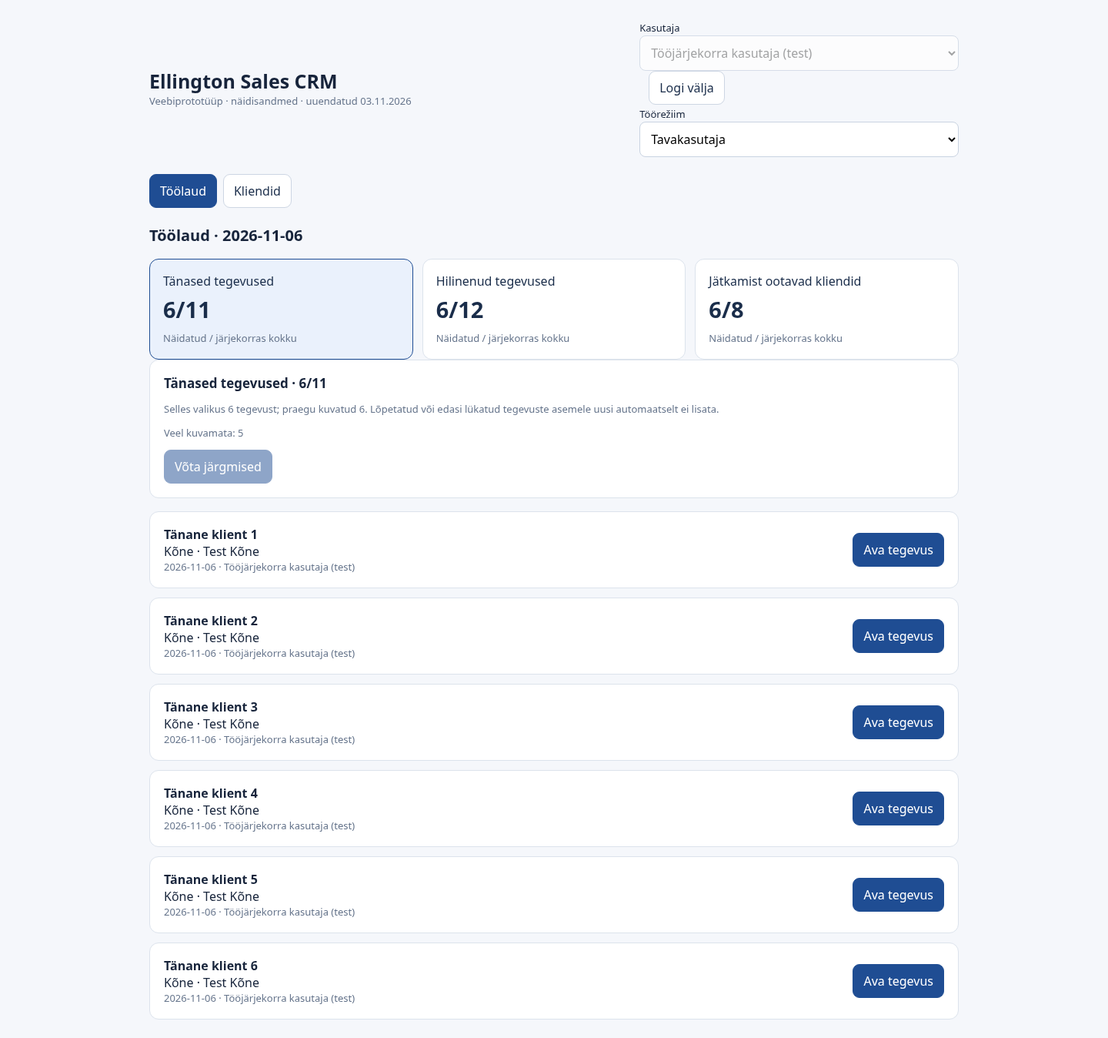
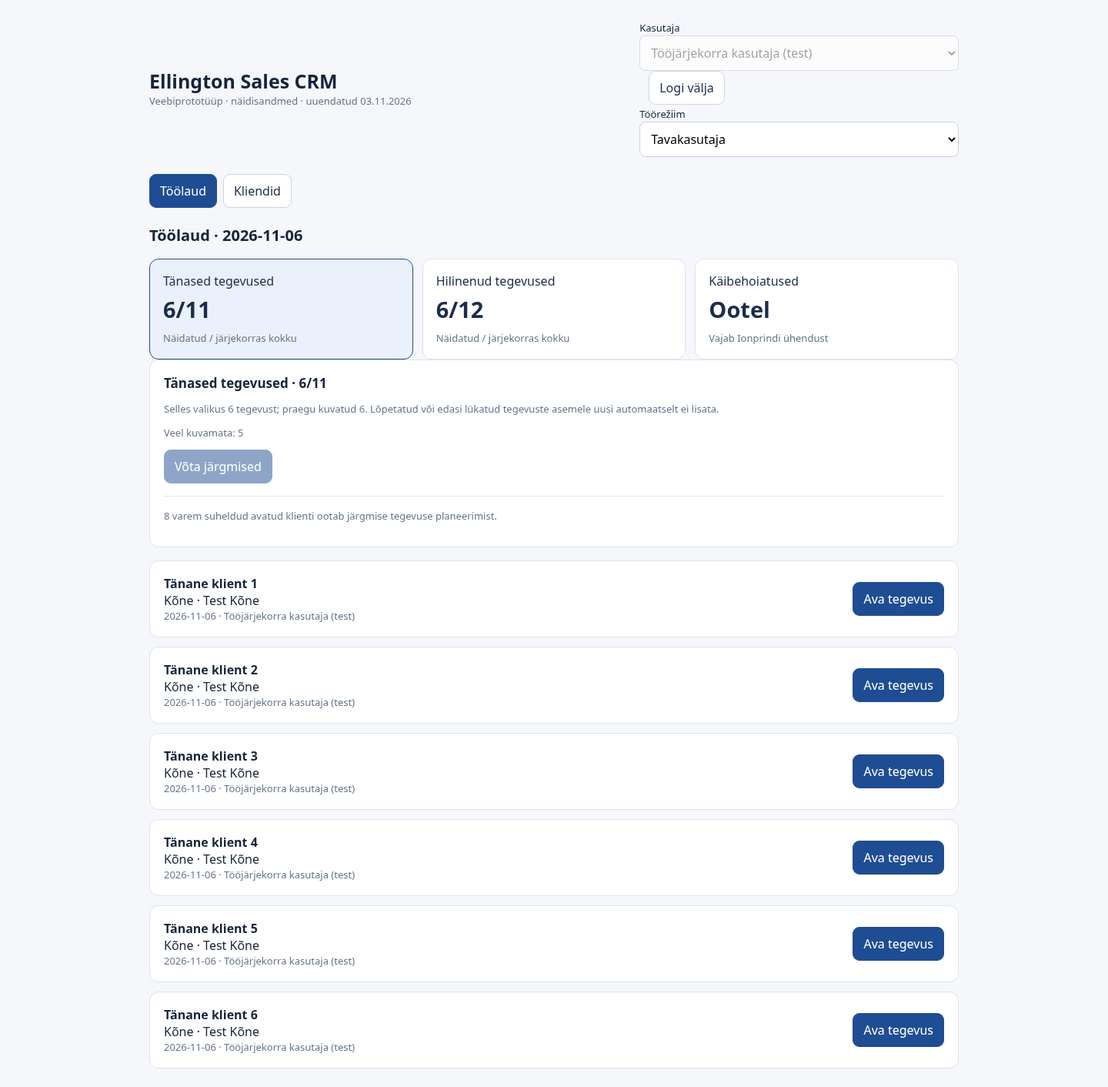
Keep revenue warnings reserved and fill returning-client work into todays six slots

diff --git a/server/services/work-queues.js b/server/services/work-queues.js
@@ -1,7 +1,7 @@
 'use strict';
 const w=require('./activity-workflow');
-const LIMIT=6,LANES=['overdue','today','continuation'];
-const titles={overdue:'Hilinenud tegevused',today:'Tänased tegevused',continuation:'Jätkamist ootavad kliendid'};
+const LIMIT=6,LANES=['overdue','today'];
+const titles={overdue:'Hilinenud tegevused',today:'Tänased tegevused'};
 const empty=()=>Object.fromEntries(LANES.map(lane=>[lane,{ids:[],seen:[],batch:0}]));
 const error=(status,message)=>{throw new w.WorkflowError(status,message);};
 const key=id=>String(id);
@@ -13,22 +13,17 @@ function stateOf(row){
  return state;
 }
 function date(day){if(!w.validDate(day))error(400,'Vigane tööpäev.');return day;}
-async function pools(db,user,day,state){
+async function pools(db,user,day){
  const admin=user.role==='admin';
- const continuation=new Set(state.continuation.seen.map(key));
- if(admin){
-  const plans=await db('crm_work_queue_days').where({work_date:day}).select('state');
-  for(const plan of plans)for(const id of stateOf(plan).continuation.seen)continuation.add(key(id));
- }
  const rows=await db('crm_activities as a').join('crm_clients as c','c.id','a.client_id').leftJoin('crm_activity_details as d','d.activity_id','a.id').leftJoin('users as u','u.id','a.owner_user_id')
   .where('a.status','active').where(q=>q.whereNull('c.stop_reason').orWhere('c.stop_reason',''))
   .modify(q=>{if(!admin)q.where('a.owner_user_id',user.id).where('c.owner_user_id',user.id);})
   .select('a.*','c.name as client','c.followup_count','u.name as owner_name','d.purpose','d.instructions','d.subject','d.template_id','d.next_step_json').orderBy('a.due_date').orderBy('a.id');
- const result={overdue:[],today:[],continuation:[]};
+ const result={overdue:[],today:[]};
  for(const raw of rows){
   const a={...raw,due_date:w.dateOnly(raw.due_date),nextStep:w.parse(raw.next_step_json)};
   if(a.due_date<day)result.overdue.push(a);
-  else if(a.due_date===day)result[continuation.has(key(a.id))?'continuation':'today'].push(a);
+  else if(a.due_date===day)result.today.push(a);
  }
  // A future or otherwise active task blocks another task for the same client.
  const candidates=await db('crm_clients as c').leftJoin('users as u','u.id','c.owner_user_id')
@@ -47,43 +42,53 @@ async function read(db,user,{day=w.today(),pages={}}={}){
  date(day);
  const admin=user.role==='admin';
  const plan=admin?null:await db('crm_work_queue_days').where({owner_user_id:user.id,work_date:day}).first();
- const state=stateOf(plan),available=await pools(db,user,day,state),queues={};
+ const state=stateOf(plan),available=await pools(db,user,day),queues={};
  for(const lane of LANES){
   const entries=available[lane],ids=new Set(state[lane].ids.map(key));
   const selected=entries.filter(a=>ids.has(key(a.id)));
-  const preview=lane==='continuation'&&!state[lane].seen.length;
   const page=admin?Number(pages[lane]||0):0;
   if(!Number.isSafeInteger(page)||page<0||page>100000)error(400,'Vigane lehekülg.');
-  const candidateTotal=lane==='continuation'?available.candidates.length:0;
-  const total=entries.length+candidateTotal;
-  const list=admin?(lane==='continuation'?[...entries,...available.candidates.map(c=>({...c,client_id:c.id,client:c.name,kind:'client'}))]:entries).slice(page*LIMIT,(page+1)*LIMIT):
-   preview?available.candidates.slice(0,LIMIT).map(c=>({...c,client_id:c.id,client:c.name,kind:'client'})):selected;
-  queues[lane]={title:titles[lane],items:list.map(a=>({...a,kind:a.kind||'activity'})),shown:list.length,total,waiting:Math.max(0,total-list.length),selected:state[lane].ids.length,batch:state[lane].batch,preview:!admin&&preview,page,has_next:admin&&(page+1)*LIMIT<total,
-   can_next:!admin&&!!plan&&selected.length===0&&(lane==='continuation'?candidateTotal>0:entries.some(a=>!state[lane].seen.includes(Number(a.id))))};
+  const list=admin?entries.slice(page*LIMIT,(page+1)*LIMIT):selected;
+  queues[lane]={title:titles[lane],items:list.map(a=>({...a,kind:'activity'})),shown:list.length,total:entries.length,waiting:Math.max(0,entries.length-list.length),selected:state[lane].ids.length,batch:state[lane].batch,page,has_next:admin&&(page+1)*LIMIT<entries.length,
+   can_next:!admin&&!!plan&&selected.length===0&&entries.some(a=>!state[lane].seen.includes(Number(a.id)))};
  }
- return {work_date:day,limit:LIMIT,read_only:admin,initialized:!!plan,version:plan?.version??null,queues};
+ const reset=queues.today.shown===0&&state.today.ids.length>0;
+ const slots=reset?LIMIT:LIMIT-state.today.ids.length;
+ const pending=available.today.some(a=>!state.today.seen.includes(Number(a.id)));
+ const unplanned={total:available.candidates.length,slots,can_fill:!admin&&!!plan&&slots>0&&!pending&&available.candidates.length>0};
+ return {work_date:day,limit:LIMIT,read_only:admin,initialized:!!plan,version:plan?.version??null,queues,unplanned,revenue_warnings:{available:false}};
 }
 async function select(db,user,input={},day=w.today()){
  date(day);
  if(user.role==='admin')error(403,'Päevaplaani valimiseks lülitu tavakasutaja režiimi.');
- if(!['initialize','next'].includes(input.action)||Object.keys(input).some(k=>!['action','lane','version','work_date','template_id'].includes(k)))error(400,'Vigane päevaplaani toiming.');
+ if(!['initialize','next','fill'].includes(input.action)||Object.keys(input).some(k=>!['action','lane','version','work_date','template_id'].includes(k)))error(400,'Vigane päevaplaani toiming.');
  return db.transaction(async trx=>{
   const actor=await trx('users').where({id:user.id,is_active:1}).forUpdate().first('id','role');
   if(!actor)error(403,'Kasutaja pole aktiivne.');
   let plan=await trx('crm_work_queue_days').where({owner_user_id:user.id,work_date:day}).first();
   if(input.action==='initialize'){
    if(plan)return read(trx,user,{day});
-   const state=empty(),available=await pools(trx,user,day,state);
+   const state=empty(),available=await pools(trx,user,day);
    for(const lane of ['overdue','today'])state[lane].ids=state[lane].seen=available[lane].slice(0,LIMIT).map(a=>Number(a.id));
    await trx('crm_work_queue_days').insert({owner_user_id:user.id,work_date:day,version:1,state:JSON.stringify(state)});
    return read(trx,user,{day});
   }
   if(!plan||input.work_date!==day||!Number.isSafeInteger(input.version)||input.version!==plan.version)error(409,'Päevaplaan muutus. Värskenda töölauda.');
   if(!LANES.includes(input.lane))error(400,'Vigane tööjärjekord.');
-  const state=stateOf(plan),lane=input.lane,available=await pools(trx,user,day,state);
-  if(available[lane].some(a=>state[lane].ids.includes(Number(a.id))))error(409,'Tee praeguse valiku tegevused enne ära või lükka need edasi.');
+  const state=stateOf(plan),lane=input.lane,available=await pools(trx,user,day);
+  const filling=input.action==='fill';
+  if(filling&&lane!=='today')error(400,'Kliente saab lisada ainult tänasesse plaani.');
+  const currentActive=available[lane].some(a=>state[lane].ids.includes(Number(a.id)));
+  if(!filling&&currentActive)error(409,'Tee praeguse valiku tegevused enne ära või lükka need edasi.');
+  let slots=LIMIT;
+  if(filling){
+   if(available.today.some(a=>!state.today.seen.includes(Number(a.id))))error(409,'Võta esmalt järjekorras olevad kuupäevaga tegevused.');
+   if(!currentActive&&state.today.ids.length){state.today.ids=[];state.today.batch++;}
+   slots=LIMIT-state.today.ids.length;
+   if(slots<=0)error(409,'Tänase valiku kuus kohta on juba kasutusel.');
+  }
   const ids=[];
-  if(lane==='continuation'){
+  if(filling){
    const templateId=Number(input.template_id);
    if(!Number.isSafeInteger(templateId)||templateId<1)error(400,'Vali olemasolev tegevusmall.');
    const template=await trx('crm_templates').where({id:templateId,is_active:1}).first();
@@ -94,11 +99,11 @@ async function select(db,user,input={},day=w.today()){
     if(await trx('crm_activities').where({client_id:candidate.id,status:'active'}).forUpdate().first('id'))continue;
     if(await trx('crm_email_inbox').where({client_id:candidate.id}).whereNull('handled_at').forUpdate().first('id'))continue;
     const created=await w.create(trx,user,{client_id:Number(candidate.id),type:template.type,template_id:template.id,purpose:template.purpose||template.name,instructions:template.body||'',subject:template.subject||'',due_date:day});
-    ids.push(Number(created.id));if(ids.length===LIMIT)break;
+    ids.push(Number(created.id));if(ids.length===slots)break;
    }
   }else ids.push(...available[lane].filter(a=>!state[lane].seen.includes(Number(a.id))).slice(0,LIMIT).map(a=>Number(a.id)));
   if(!ids.length)error(409,'Sobivaid tegevusi ei ole enam järjekorras. Värskenda töölauda.');
-  state[lane]={ids,seen:[...state[lane].seen,...ids],batch:state[lane].batch+1};
+  state[lane]={ids:filling?[...state[lane].ids,...ids]:ids,seen:[...state[lane].seen,...ids],batch:state[lane].batch+(filling?0:1)};
   const encoded=JSON.stringify(state);if(Buffer.byteLength(encoded)>60000)error(409,'Päevaplaani maht on täis. Jätka kliendikaardilt.');
   await trx('crm_work_queue_days').where({id:plan.id}).update({state:encoded,version:plan.version+1,updated_at:trx.fn.now()});
   return read(trx,user,{day});

diff --git a/test/work-queues.test.js b/test/work-queues.test.js
@@ -52,8 +52,8 @@ test('work date follows Tallinn midnight in winter and summer',()=>{
 test('queue reads preserve records and exclude stopped, future, untouched, reply-awaiting and other-owner clients',async()=>{
  const before=await snapshot(),result=await view();
  assert.equal(result.initialized,false);assert.equal(result.work_date,day);
- assert.equal(result.queues.overdue.total,15);assert.equal(result.queues.today.total,10);assert.equal(result.queues.continuation.total,10);
- assert.equal(result.queues.continuation.shown,6);assert.deepEqual(result.queues.continuation.items.slice(0,2).map(c=>c.client_id),fixtures.unplanned.slice(0,2));
+ assert.equal(result.queues.overdue.total,15);assert.equal(result.queues.today.total,10);assert.equal(result.unplanned.total,10);
+ assert.deepEqual(Object.keys(result.queues).sort(),['overdue','today']);assert.equal(result.revenue_warnings.available,false);
  assert.deepEqual(await snapshot(),before);
  assert.equal(Number((await db('crm_work_queue_days').where({owner_user_id:a.id}).count('* as n').first()).n),0);
  await api('/v8/work-queues',undefined,401,null);
@@ -99,25 +99,40 @@ test('explicit next batch is atomic across browser tabs and keeps the original a
  const after=await view();assert.equal(after.version,current.version+1);assert.equal(after.queues.overdue.shown,6);assert.ok(after.queues.overdue.items.every(a=>!firstBatch.includes(a.id)));
  assert.deepEqual(await snapshot(),before);
 });
-test('returning clients require explicit template selection; selecting six creates tasks but sends nothing and preserves followup counts',async()=>{
- const before=await view(),baseBody={action:'next',lane:'continuation',version:before.version,work_date:day};
- const original=await snapshot();await api('/v8/work-queues/select',baseBody,400);assert.deepEqual(await snapshot(),original);
- await api('/v8/work-queues/select',{...baseBody,work_date:shift(-1),template_id:templates.Kõne},409);
- await api('/v8/work-queues/select',{...baseBody,user_id:b.id,template_id:templates.Kõne},400);
- const selected=(await api('/v8/work-queues/select',{...baseBody,template_id:templates.Kõne})).data;
- assert.equal(selected.queues.continuation.preview,false);assert.equal(selected.queues.continuation.shown,6);assert.equal(selected.queues.continuation.total,10);
- assert.deepEqual(selected.queues.continuation.items.map(a=>a.client_id),fixtures.unplanned.slice(0,6));
- assert.equal(selected.queues.today.total,before.queues.today.total);
- const ids=selected.queues.continuation.items.map(a=>a.id);assert.ok(selected.queues.today.items.every(a=>!ids.includes(a.id)));
+test('dated work takes priority and returning clients fill only the two unused slots in todays six',async()=>{
+ let current=await view();
+ const body=()=>({action:'fill',lane:'today',version:current.version,work_date:day,template_id:templates.Kõne});
+ const beforeBlocked=await snapshot();assert.equal(current.unplanned.can_fill,false);
+ await api('/v8/work-queues/select',body(),409);assert.deepEqual(await snapshot(),beforeBlocked);
+ for(const task of current.queues.today.items)await api('/v8/activities/'+task.id+'/resolve',{comment:'Finish dated task first'});
+ current=await view();assert.equal(current.queues.today.shown,0);assert.equal(current.queues.today.total,4);assert.equal(current.unplanned.can_fill,false);
+ await api('/v8/work-queues/select',body(),409);
+ current=(await api('/v8/work-queues/select',{action:'next',lane:'today',version:current.version,work_date:day})).data;
+ assert.equal(current.queues.today.shown,4);assert.equal(current.unplanned.slots,2);assert.equal(current.unplanned.can_fill,true);
+ const original=await snapshot(),fillBody=body();
+ await api('/v8/work-queues/select',{...fillBody,template_id:null},400);assert.deepEqual(await snapshot(),original);
+ await api('/v8/work-queues/select',{...fillBody,work_date:shift(-1)},409);
+ await api('/v8/work-queues/select',{...fillBody,user_id:b.id},400);
+ await api('/v8/work-queues/select',{...fillBody,lane:'continuation'},400);
+ const selected=(await api('/v8/work-queues/select',fillBody)).data;
+ assert.equal(selected.queues.today.shown,6);assert.equal(selected.queues.today.total,6);assert.equal(selected.unplanned.total,8);assert.equal(selected.unplanned.can_fill,false);
+ const newTasks=selected.queues.today.items.filter(a=>fixtures.unplanned.includes(a.client_id));
+ assert.deepEqual(newTasks.map(a=>a.client_id),fixtures.unplanned.slice(0,2));
  const after=await snapshot();assert.deepEqual(after.crm_clients,original.crm_clients);assert.deepEqual(after.crm_email_outbox,original.crm_email_outbox);
- assert.equal(after.crm_activities.length,original.crm_activities.length+6);
- for(const task of selected.queues.continuation.items){assert.equal(task.due_date,day);assert.equal(task.owner_user_id,a.id);}
- await api('/v8/work-queues/select',{...baseBody,template_id:templates.Kõne},409);
- assert.deepEqual(await snapshot(),after);assert.deepEqual((await view()).queues.continuation.items.map(a=>a.id),ids);
+ assert.equal(after.crm_activities.length,original.crm_activities.length+2);
+ for(const task of newTasks){assert.equal(task.due_date,day);assert.equal(task.owner_user_id,a.id);}
+ await api('/v8/work-queues/select',fillBody,409);
+ assert.deepEqual(await snapshot(),after);assert.deepEqual((await view()).queues.today.items.map(a=>a.id),selected.queues.today.items.map(a=>a.id));
+});
+test('finishing a filled slot does not reopen its allocation or refill the daily plan',async()=>{
+ const current=await view(),task=current.queues.today.items[0];
+ await api('/v8/activities/'+task.id+'/resolve',{comment:'No automatic replacement'});
+ const next=await view();assert.equal(next.queues.today.shown,5);assert.equal(next.queues.today.total,5);assert.equal(next.unplanned.slots,0);assert.equal(next.unplanned.can_fill,false);
+ const before=await snapshot();await api('/v8/work-queues/select',{action:'fill',lane:'today',version:next.version,work_date:day,template_id:templates.Kõne},409);assert.deepEqual(await snapshot(),before);
 });
 test('user scope and administrator overview cannot reassign or complete another employees work',async()=>{
  const own=await view(),other=(await api('/v8/work-queues',undefined,200,otherCookie)).data;
- assert.equal(other.queues.today.total,1);assert.equal(other.queues.continuation.total,0);
+ assert.equal(other.queues.today.total,1);assert.equal(other.unplanned.total,0);
  await api('/v8/work-queues?today_page=1',undefined,403);
  await api('/v8/activities/'+fixtures.otherActivity+'/resolve',{comment:'Must reject'},403);
  await api('/work-mode',{mode:'admin'},200,adminCookie);
@@ -131,8 +146,8 @@ test('user scope and administrator overview cannot reassign or complete another 
  assert.deepEqual(await snapshot(),before);assert.equal(Number((await db('crm_work_queue_days').count('* as n').first()).n),count);
 });
 test('next day reclassifies unfinished returning-client tasks as overdue without creating copies',async()=>{
- const current=await view(),ids=current.queues.continuation.items.map(a=>a.id),before=await snapshot();
- const tomorrow=await queues.read(db,a,{day:shift(1)});assert.equal(tomorrow.initialized,false);assert.equal(tomorrow.queues.continuation.total,4);
+ const current=await view(),ids=current.queues.today.items.filter(a=>fixtures.unplanned.includes(a.client_id)).map(a=>a.id),before=await snapshot();
+ const tomorrow=await queues.read(db,a,{day:shift(1)});assert.equal(tomorrow.initialized,false);assert.equal(tomorrow.unplanned.total,8);
  const initialized=await queues.select(db,a,{action:'initialize'},shift(1));assert.equal(initialized.work_date,shift(1));
  const plans=await db('crm_work_queue_days').where({owner_user_id:a.id});assert.equal(plans.length,2);
  const shown=[];
@@ -173,9 +188,9 @@ test('a concurrent manual planner cannot produce a second active task for a retu
  const listener=query=>{if(query.sql.includes('crm_clients')&&query.sql.includes('for update')&&query.bindings.includes(first)){observed=true;release();}};
  const timer=setTimeout(release,5000);db.on('query',listener);
  try{
-  const selected=await queues.select(db,user,{action:'next',lane:'continuation',version:initial.version,work_date:day,template_id:templates.Kõne});
+  const selected=await queues.select(db,user,{action:'fill',lane:'today',version:initial.version,work_date:day,template_id:templates.Kõne});
   await manual;assert.equal(observed,true);
-  assert.deepEqual(selected.queues.continuation.items.map(a=>a.client_id),[second]);
+  assert.deepEqual(selected.queues.today.items.map(a=>a.client_id),[second]);
   assert.equal(Number((await db('crm_activities').where({client_id:first,status:'active'}).count('* as n').first()).n),1);
  }finally{clearTimeout(timer);db.removeListener('query',listener);release();await manual;}
 });

diff --git a/private/v8/prototuup_v8.html b/private/v8/prototuup_v8.html
@@ -524,7 +524,7 @@ async function crmResetPassword(id){const p=prompt('Uus CRM-i sisselogimise paro
 // Unified activity workflow. All views call these same forms and endpoints.
 let v8Active=null,v8Action=null,v8Stop=null,v8Pending=false,crmMailDraft=null;
 let crmQueueLoad=0;
-let crmQueues=null,crmQueueTemplate="",crmQueuePages={overdue:0,today:0,continuation:0};
+let crmQueues=null,crmQueueTemplate="",crmQueuePages={overdue:0,today:0};
 let crmReady=false,crmRealMe=null,crmRealUsers=[],crmReplyAlerts=[],crmReplyLoading=false,crmReplyReview=null;
 let crmSelectedClient=null,crmClientResult=null,crmClientMessages=[],crmClientReplies=[],crmClientRequest=0;
 const crmReplyIds=clientId=>[...new Set([...crmReplyAlerts,...crmClientReplies].filter(r=>Number(r.client_id||crmSelectedClient)===Number(clientId)&&!r.handled_at).map(r=>Number(r.id)))];
@@ -560,24 +560,28 @@ function crmClientActivities(result){
 function renderDashboard(){
  const alerts=crmReplyAlerts.map(a=>`<section class="panel" style="border-left:5px solid #c62828"><div class="taskhead"><div><b>${esc(a.client_name)}</b><div class="bad"><b>Klient vastas</b></div><div class="muted">${esc(a.subject||'(Pealkirjata)')} · ${esc(a.sender)}</div></div><div class="choices"><button onclick="crmOpenReplyClient(${Number(a.client_id)})">Ava kliendikaart</button>${Number(a.owner_user_id)===Number(crmRealMe?.id)?`<button onclick="crmReviewReply(${Number(a.id)},${Number(a.client_id)})">Käsitle vastust</button><button onclick="crmReplyPlan(${Number(a.client_id)})">Planeeri uus tegevus</button><button onclick="crmReplyStop(${Number(a.client_id)})">Lõpeta jälgimine</button>`:'<span class="muted">Ainult vaatamine</span>'}</div></div></section>`).join('');
  if(!crmQueues)return '<h2>Töölaud</h2><p class="muted">Laadin päevaplaani…</p>';
- const lane=tab==='overdue'?'overdue':tab==='continuation'?'continuation':'today';
+ const lane=tab==='overdue'?'overdue':'today';
  const q=crmQueues.queues[lane],busy=v8Pending||!!v8Active||!!v8Action||!!v8Stop;
- const cards=[['today','activities'],['overdue','overdue'],['continuation','continuation']].map(([key,t])=>{
-  const item=crmQueues.queues[key];return `<button class="card ${lane===key?'active':''}" onclick="switchTab('${t}')">${esc(item.title)}<strong>${item.shown}/${item.total}</strong><span class="muted">Näidatud / järjekorras kokku</span></button>`;
- }).join('');
- const tasks=q.items.filter(a=>a.kind==='activity').map(crmTask);
- const clients=q.items.filter(a=>a.kind==='client').map(c=>`<section class="panel"><div class="taskhead"><div><b>${esc(c.client)}</b><div class="muted">${esc(c.owner_name||'')} · Tehtud tegevusi: ${Number(c.followup_count||0)}</div><div class="small muted">${c.last_contact?'Viimane kontakt: '+esc(c.last_contact):'Viimase kontakti aeg teadmata'}</div></div><button onclick="crmOpenReplyClient(${Number(c.client_id)})">Ava kliendikaart</button></div></section>`).join('');
- const selector=lane==='continuation'&&!crmQueues.read_only?`<label for="crmQueueTemplate">Tegevusmall järgmiseks valikuks</label><select id="crmQueueTemplate" ${busy?'disabled':''} onchange="crmQueueTemplate=this.value"><option value="">Vali tegevusmall</option>${data.templates.map(t=>`<option value="${esc(t.id)}" ${String(t.id)===String(crmQueueTemplate)?'selected':''}>${esc(t.type)} · ${esc(t.purpose||t.name)}</option>`).join('')}</select><p class="small muted">Valik loob kuni 6 tänase tähtajaga tegevust. E-kirju automaatselt ei saadeta.</p>`:'';
+ const cards=[['today','activities'],['overdue','overdue']].map(([key,t])=>{
+  const item=crmQueues.queues[key];return `<button class="card ${tab===t?'active':''}" onclick="switchTab('${t}')">${esc(item.title)}<strong>${item.shown}/${item.total}</strong><span class="muted">Näidatud / järjekorras kokku</span></button>`;
+ }).join('')+`<button class="card ${tab==='warnings'?'active':''}" onclick="switchTab('warnings')">Käibehoiatused<strong>Ootel</strong><span class="muted">Vajab Ionprindi ühendust</span></button>`;
+ const header=`<h2>Töölaud · ${esc(crmQueues.work_date)}</h2><div class="cards">${cards}</div>`;
+ const replies=alerts?`<h2>Klientide vastused · ${crmReplyAlerts.length}</h2><div class="stack">${alerts}</div>`:'';
+ if(tab==='warnings')return header+'<section class="panel"><h3>Käibehoiatused</h3><p class="muted">See koht on reserveeritud käibelangusega klientide tegevustele. Hoiatused lisanduvad pärast Ionprindi andmeühenduse valmimist.</p></section>'+replies;
+ const tasks=q.items.map(crmTask);
+ const waiting=crmQueues.unplanned;
+ const fill=lane==='today'?`<div class="divider"></div><p class="muted">${waiting.total} varem suheldud avatud klienti ootab järgmise tegevuse planeerimist.</p>${!crmQueues.read_only&&waiting.can_fill?`<label for="crmQueueTemplate">Tegevusmall vabade kohtade täitmiseks</label><select id="crmQueueTemplate" ${busy||!waiting.can_fill?'disabled':''} onchange="crmQueueTemplate=this.value"><option value="">Vali tegevusmall</option>${data.templates.map(t=>`<option value="${esc(t.id)}" ${String(t.id)===String(crmQueueTemplate)?'selected':''}>${esc(t.type)} · ${esc(t.purpose||t.name)}</option>`).join('')}</select><p class="small muted">Kuupäevaga tegevused on eespool. Valik lisab kuni ${waiting.slots} tegevust tänasesse plaani; kirju automaatselt ei saadeta.</p><button class="primary" ${busy||!waiting.can_fill?'disabled':''} onclick="crmQueueNext('today',true)">Täida vabad kohad klientidega</button>`:''}`:'';
  const navigation=crmQueues.read_only?`<div class="choices"><button ${q.page===0||busy?'disabled':''} onclick="crmQueuePage('${lane}',-1)">Eelmised</button><button ${!q.has_next||busy?'disabled':''} onclick="crmQueuePage('${lane}',1)">Järgmised</button></div>`:
-  `${selector}<button class="primary" ${!q.can_next||busy?'disabled':''} onclick="crmQueueNext('${lane}')">${lane==='continuation'&&q.preview?'Võta kuni 6 klienti päevaplaani':'Võta järgmised'}</button>`;
- const explanation=crmQueues.read_only?'Administraatori ülevaade kõigi töötajate järjekordadest. Päevaplaani valimiseks kasuta tavakasutaja režiimi.':q.preview?'Varem suheldud avatud kliendid, kellel puudub aktiivne tegevus. Vali mall ja võta nad päevaplaani.':`Selles valikus ${q.selected} tegevust; praegu kuvatud ${q.shown}. Lõpetatud või edasi lükatud tegevuste asemele uusi automaatselt ei lisata.`;
- return `<h2>Töölaud · ${esc(crmQueues.work_date)}</h2><div class="cards">${cards}</div><section class="panel"><h3>${esc(q.title)} · ${q.shown}/${q.total}</h3><p class="muted">${esc(explanation)}</p><p class="small muted">Veel kuvamata: ${q.waiting}</p>${navigation}</section>${renderTasks(tasks)}${clients?'<div class="stack">'+clients+'</div>':''}${!q.items.length?'<p class="muted">Selles valikus praegu tegevusi ei ole.</p>':''}${alerts?`<h2>Klientide vastused · ${crmReplyAlerts.length}</h2><div class="stack">${alerts}</div>`:''}`;
+  `<button class="primary" ${!q.can_next||busy?'disabled':''} onclick="crmQueueNext('${lane}')">Võta järgmised</button>`;
+ const explanation=crmQueues.read_only?'Administraatori ülevaade kõigi töötajate järjekordadest. Päevaplaani valimiseks kasuta tavakasutaja režiimi.':`Selles valikus ${q.selected} tegevust; praegu kuvatud ${q.shown}. Lõpetatud või edasi lükatud tegevuste asemele uusi automaatselt ei lisata.`;
+ return `${header}<section class="panel"><h3>${esc(q.title)} · ${q.shown}/${q.total}</h3><p class="muted">${esc(explanation)}</p><p class="small muted">Veel kuvamata: ${q.waiting}</p>${navigation}${fill}</section>${renderTasks(tasks)}${!q.items.length?'<p class="muted">Selles valikus praegu tegevusi ei ole.</p>':''}${replies}`;
 }
-async function crmQueueNext(lane){
- if(v8Pending||v8Active||v8Action||v8Stop||!crmQueues?.queues[lane]?.can_next)return;
- if(lane==='continuation'&&!crmQueueTemplate)return alert('Vali tegevusmall.');
- const body={action:'next',lane,version:crmQueues.version,work_date:crmQueues.work_date};
- if(lane==='continuation')body.template_id=Number(crmQueueTemplate);
+async function crmQueueNext(lane,fill=false){
+ if(v8Pending||v8Active||v8Action||v8Stop||!crmQueues)return;
+ if(fill?!crmQueues.unplanned.can_fill:!crmQueues.queues[lane]?.can_next)return;
+ if(fill&&!crmQueueTemplate)return alert('Vali tegevusmall.');
+ const body={action:fill?'fill':'next',lane,version:crmQueues.version,work_date:crmQueues.work_date};
+ if(fill)body.template_id=Number(crmQueueTemplate);
  v8Pending=true;render();
  try{await v8Api('/v8/work-queues/select',{method:'POST',body:JSON.stringify(body)});await v8ReloadTasks();}
  catch(e){alert(e.message);try{await v8ReloadTasks();}catch{notice='Päevaplaani laadimine ebaõnnestus. Värskenda lehte.';}}

diff --git a/docs/work-queues.md b/docs/work-queues.md
@@ -6,48 +6,64 @@ analüütika (etapp 3) ning Ionprint, käibehoiatused ja agent (etapp 4) jääva
 
 ## Kasutaja töölaud
 
-Tavakasutaja näeb ainult enda klientide ja enda tegevuste järjekordi:
+Põhivaates säilivad kokkulepitud kolm kohta:
 
-1. **Hilinenud tegevused:** aktiivsed tegevused tähtajaga enne tänast, vanim
-   tähtaeg ees; sama kuupäeva korral väiksem tegevuse ID ees.
-2. **Tänased tegevused:** aktiivsed tänase tähtajaga tegevused, ID järjekorras.
-3. **Jätkamist ootavad kliendid:** varem suheldud avatud kliendid, kellel pole
-   ühtegi aktiivset tegevust, ka mitte tulevikus. Esimesena teadmata viimase
-   kontakti ajaga kliendid, seejärel kõige kauem kontaktita olnud kliendid;
-   võrdse aja korral kliendi ID järjekorras. Viimane teadaolev kontakt on
-   lõpetatud tegevuse aeg või imporditud ajaloo kuupäev. Varasemat suhtlust
-   tõendab lõpetatud tegevus, imporditud ajalugu või säilinud positiivne
-   followup'ide loendur; täiesti puuduvat ajalugu ei täideta oletatud kuupäevaga.
+- **Käibehoiatused:** praegu reserveeritud koht tekstiga „Ootel / Vajab
+  Ionprindi ühendust”. Näidisandmeid ega väljamõeldud käibehoiatusi ei kuvata.
+- **Hilinenud tegevused:** kuni kuus aktiivset tegevust tähtajaga enne tänast,
+  vanim tähtaeg ees; sama kuupäeva korral väiksem tegevuse ID ees.
+- **Tänased tegevused:** kuni kuus aktiivset tänase tähtajaga tegevust, ID
+  järjekorras. Kuupäevaga kokkulepped saavad eelisjärjekorra.
 
-Kõigis järjekordades kuvatakse kuni 6 kirjet. `6/23` tähendab kuut hetkel
-näidatud kirjet kokku 23-st sobivast kirjest, seega 17 on veel kuvamata.
-Lõpetatud või edasi lükatud kirje eemaldub nähtavalt valikust ja sobivast
-järjekorrast, aga selle asemele ei lisata automaatselt uut. Näiteks `6/23`
-muutub ühe lõpetamise järel `5/22`, mitte uuesti `6/22`.
+Eraldi „Jätkamist ootavate klientide” kaarti ega tööjärjekorda pole. Varem
+suheldud, järgmise tegevuseta kliendid on **tänase plaani vabade kohtade
+allikas**, mitte neljas või käibehoiatuste asemele pandud lahter.
+
+Tegevusjärjekorra `6/23` tähendab kuut hetkel näidatud tegevust kokku 23-st
+sobivast aktiivsest tegevusest. Veel 17 on kuvamata. Tegevuseta klientide arvu
+näidatakse tänases vaates eraldi selgitava tekstina, mitte tegevuste 6/N
+loenduri osana: neile pole veel ülesandeid loodud.
 
 Päeva esimesel avamisel salvestatakse tänaste ja hilinenud tegevuste valik
 serveris. Valik säilib lehe värskendamisel, teises brauseris ja režiimivahetusel.
-Iga järjekorra praeguse valiku järel saab vajutada **Võta järgmised**, kui kõik
-selle valiku tegevused on tehtud, edasi lükatud või muul põhjusel sellest
-järjekorrast lahkunud. Järgmine valik sisaldab kuni kuut veel valimata tegevust.
+Lõpetatud või edasi lükatud tegevuse asemele uut automaatselt ei lisata:
+`6/23` muutub ühe lõpetamise järel `5/22`, mitte uuesti `6/22`. Praeguse valiku
+käsitlemise järel saab vajutada **Võta järgmised**.
 
-Jätkamist ootavate klientide puhul on esialgu nähtav kuni kuue kliendi
-ettepanek. Kasutaja valib olemasoleva tegevusmalli ja vajutab **Võta kuni 6
-klienti päevaplaani**. Alles see toiming loob tegevused tänase tähtajaga.
-Tegevus võib olla kõne, kohtumine või e-kiri vastavalt valitud mallile.
-E-kirja tegevuse loomine **ei saada kirja**; saatmine käib olemasoleva
-kasutajapoolse saatmisvormi ja kinnituste kaudu.
+### Tänase plaani vabade kohtade täitmine
 
-Sel päeval täidetakse loodud tegevused jätkamise järjekorras ning neid ei
-kuvata samaaegselt tänaste tegevuste hulgas. Järgmisel päeval on tegemata
-tegevus tavaline hilinenud tegevus sama ID ja sama tähtajaga. Tulevane
-järeltegevus ilmub oma päeval tänaste tegevuste hulka. Ülejäänud kandidaadid
-jäävad kuupäevata järjekorda, mitte ei muutu kõik korraga hilinenuks.
+Kui kuupäevaga tegevused on valitud ja plaani esialgsest kuuest kohast jäi
+kohti kasutamata, saab kasutaja samas tänases vaates valida olemasoleva malli
+ja vajutada **Täida vabad kohad klientidega**. Näiteks nelja planeeritud
+tegevuse kõrvale saab võtta kaks klienti, kokku kuus tegevust.
 
-Peatamise/sulgemise tunnus on olemasolev `crm_clients.stop_reason`. Peatatud
-kliendid ja vastutajata kliendid ei saa uut päevaplaani tegevust. Ka käsitlemata
-kliendivastus välistab uue automaatse valiku: vastust saab käsitleda senise
-vastuste töövooga. Olemasolevat aktiivset tegevust see reegel ära ei peida.
+Kui kuupäevaga tegevusi on veel valimata, ei luba server ega kasutajaliides
+neist klientide valikuga mööduda. Näiteks kümne tänase tegevuse korral tuleb
+esmalt käsitleda esimest kuut ja võtta järgmised neli; alles siis saab nelja
+kõrvale planeerida kuni kaks kliendikontakti.
+
+Lõpetatud tegevus ei vabasta sama valiku kasutatud kohta uue kliendi jaoks.
+Kui kõik praeguse valiku tegevused on käsitletud ja kuupäevaga töid enam ees
+pole, saab kasutaja malli valides alustada järgmist kuni kuue kliendiga valikut.
+Sama kuue piirang kehtib kõigile tänases lahtris näidatavatele tegevustele
+kokku, mitte eraldi järeltegevustele ja klientidest loodud ülesannetele.
+
+Klientide valikust jäävad välja peatatud ja vastutajata kliendid ning kõik,
+kellel on juba aktiivne tegevus, ka tulevikus. Käsitlemata kliendivastus
+välistab samuti uue ülesande; vastust saab käsitleda senise vastuste töövooga.
+Varasemat suhtlust tõendab lõpetatud tegevus, imporditud ajalugu või säilinud
+positiivne followup'ide loendur. Täiesti puutumata lead'id jäävad etappi 3.
+
+Klientide järjestus on teadmata viimase kontakti ajaga kliendid esmalt,
+seejärel vanim teadaolev kontakt ja võrdse aja korral kliendi ID. Viimane
+kontakt on lõpetatud tegevuse aeg või imporditud ajaloo kuupäev. Puuduvat aega
+ei täideta oletatud kuupäevaga.
+
+Valik loob mallile vastavad kõned, kohtumised või e-kirja tegevused tänase
+tähtajaga. Kirja tegevuse loomine **ei saada kirja**. Ülesanded ilmuvad kohe
+samasse tänaste tegevuste loendisse. Järgmisel päeval on tegemata ülesanne
+hilinenud tegevus sama ID ja tähtajaga; kuupäevata kandidaate see hilinenuks
+ei muuda. Peatamise/sulgemise tunnus on olemasolev `crm_clients.stop_reason`.
 
 ## Õigused ja andmete säilimine
 
@@ -90,14 +106,14 @@ midagi tootmisse ega muuda sealset `.env` faili, postkaste või PM2 protsesse.
 ## Kontrollid
 
 Kohalik MariaDB 11.4.13, Node.js 24.22.1, ainult sünteetilised kontod ja kirjed.
-12 uut regressiooni kontrollivad järjekordi, kuue piirangut, 6/N loendureid,
+13 uut regressiooni kontrollivad järjekordi, kuue piirangut, 6/N loendureid,
 Eesti aja järgi päevavahetust, stabiilset valikut, mitme brauseri ja käsitsi
 planeerimise võidujookse, õigusi, followup'i ühekordset suurenemist, tulevaste ja
 peatatud klientide välistamist, vigase plaani tõket ning migratsiooni sobivust.
 
 Chromiumis kontrolliti sisselogimist, oma töölauda, lõpetamist ilma automaatse
-juurdetäitmiseta, lehe värskendamist, mallipõhist kuue tegevuse loomist, senise
-tegevusvormi avamist, administraatori lehitsemist, režiimivahetust ning mobiilset
+juurdetäitmiseta, lehe värskendamist, kuupäevaga tegevuste eelisjärjekorda, ainult vaba koha
+täitmist ning senise tegevusvormi avamist, administraatori lehitsemist, režiimivahetust ning mobiilset
 vaadet. JavaScripti vigu ja horisontaalset ülevoolu ei olnud. Kõik välised
 brauseripäringud ning saatmise ja IMAP sünkroonimise päringud olid blokeeritud;
 päris e-kirju ei saadetud. Tegemist pole tootmises tehtud kontrolliga.
@@ -106,13 +122,7 @@ Ekraanipildid:
 
 - [Tänased tegevused](work-queues/today.png)
 - [Hilinenud pärast ühe tegevuse lõpetamist](work-queues/overdue.png)
-- [Jätkamist ootavate klientide valitud tegevused](work-queues/continuation.png)
+- [Tänane valik pärast ühe vaba koha täitmist](work-queues/today-filled.png)
+- [Ionprindi jaoks reserveeritud käibehoiatuste koht](work-queues/warnings.png)
 - [Administraatori ülevaade](work-queues/admin.png)
 - [Mobiilne vaade](work-queues/mobile.png)
-
-
-Koos seotud skeemi-, pärandskeemi ülemineku-, paigalduse/taastamise ja
-kasutajaõiguste regressioonidega: **40 läbitud, 0 ebaõnnestunud, 0 vahele jäetud**,
-väljumiskood 0. Varasemat 39 testi komplekti tervikuna ei korratud. Kontrolliti
-ainult uue migratsiooni ja tööjärjekordadega seotud olemasolevaid komplekte ning
-12 uut testi. Migratsioonid 001–004 ja sõltuvuste failid on muutmata.
